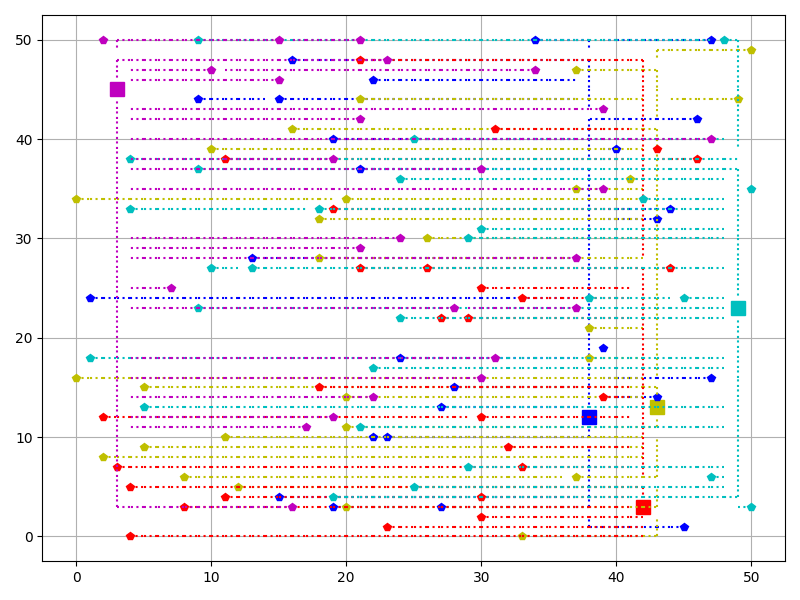
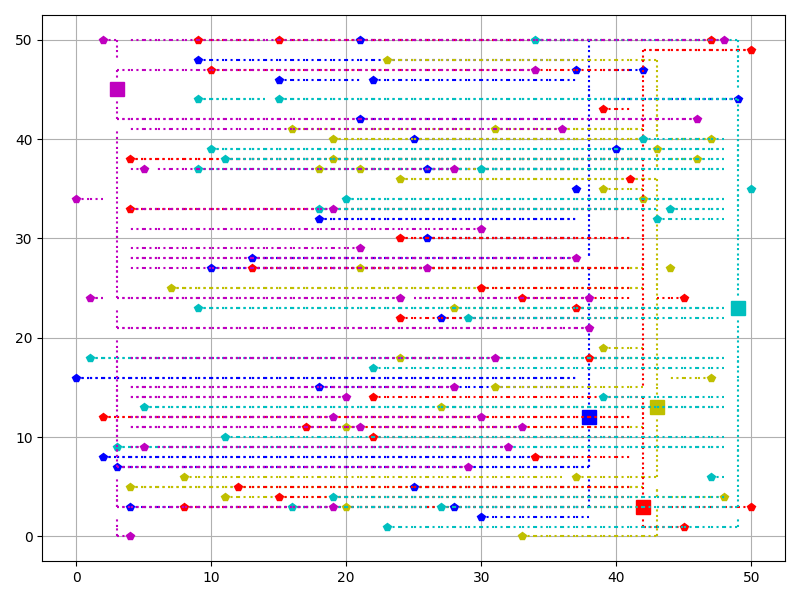
Jsonify Update
Create JSON output

diff --git a/code/klassen/district.py b/code/klassen/district.py
@@ -1,6 +1,7 @@
 from .batterijen import Batterijen
 from .huizen import Huizen
 from typing import TextIO
+import json
 import os
 
 
@@ -15,10 +16,9 @@ class District:
         self.losse_huizen = []
         self.gelinkte_huizen = []
 
-
         self.laad_batterijen(self.data_pad(district, 'batteries'))
         self.laad_huizen(self.data_pad(district, 'houses'))
-        
+
         for huis in self.losse_huizen:
             huis.bereken_afstand(self.batterijen)
 
@@ -28,21 +28,23 @@ class District:
 
         In: CSV bestand"""
 
-    # neemt file eindigend op batteries.csv als input. 
+        # neemt file eindigend op batteries.csv als input.
         with open(bestand, 'r') as b:
             teller = len(b.readlines())
         with open(bestand, 'r') as b:
             for i in range(0, teller):
                 data = self.data_inladen(b)
-        # voeg batterij object aan batterij-lijst toe.
+                # voeg batterij object aan batterij-lijst toe.
                 if data[0].isnumeric():
-                    self.batterijen.append(Batterijen(i, int(data[0]), int(data[1]), float(data[2])))
+                    self.batterijen.append(
+                        Batterijen(i, int(data[0]), int(data[1]),
+                                   float(data[2])))
 
     def laad_huizen(self, bestand: str) -> None:
         """Neemt data van bestand en maakt daarna huisobjecten.
         Deze worden ondergebracht in huislijst.
 
-        In: CSV bestand"""    
+        In: CSV bestand"""
 
         # neemt file eindigend op houses.csv als input. 
         with open(bestand, 'r') as b:
@@ -50,9 +52,10 @@ class District:
         with open(bestand, 'r') as b:
             for i in range(0, teller):
                 data = self.data_inladen(b)
-        # voeg batterij object aan huizen-lijst toe.
+                # voeg batterij object aan huizen-lijst toe.
                 if data[0].isnumeric():
-                    self.losse_huizen.append(Huizen(i, int(data[0]), int(data[1]), float(data[2])))
+                    self.losse_huizen.append(
+                        Huizen(i, int(data[0]), int(data[1]), float(data[2])))
 
     def data_inladen(self, b: TextIO):
         """Neemt bestandlijn en converteert het naar een lijst.
@@ -62,10 +65,10 @@ class District:
 
         line = b.readline()
         line = line.replace("\n", '')
-        line = line.replace('\"','')
+        line = line.replace('\"', '')
 
         return line.split(",")
-    
+
     def data_pad(self, district, item) -> str:
         """Vind het juist bestandspad naar opgevraagde bestand.
 
@@ -134,7 +137,7 @@ class District:
                 batterij.kabel_toevoegen(((cursor_x), (cursor_y)))
             cursor_y -= 1
         self.creer_connectie(batterij, huis)
-    
+
     def kosten_berekening(self):
         prijskaartje = 0
         # Kost batterijen
@@ -145,4 +148,30 @@ class District:
 
         return prijskaartje
 
-        
+    def jsonify(self, wijk_nummer):
+        json_dict = []
+        district = {"district": int(wijk_nummer), "costs-shared": self.kosten_berekening()}
+        json_dict.append(district)
+        batterij_data = {}
+        for batterij in self.batterijen:
+            lokatie_bat = f"{batterij.x_as},{batterij.y_as}"
+            capaciteit = batterij.capaciteit
+            huizen = []
+            for huis in batterij.gelinkte_huizen:
+                huis_data = {}
+                lokatie_huis = f"{huis.x_as},{huis.y_as}"
+                output = huis.maxoutput
+                kabels = []
+                for i in range(len(huis.kabels)):
+                    kabels.append(f"{huis.kabels[i][0]},{huis.kabels[i][1]}")
+                huis_data["location"] = lokatie_huis
+                huis_data["output"] = output
+                huis_data["cables"] = kabels
+                huizen.append(huis_data)
+            batterij_data["location"] = lokatie_bat
+            batterij_data["capacity"] = capaciteit
+            batterij_data["houses"] = huizen
+            json_dict.append(batterij_data)
+            batterij_data = {}
+        with open("output.json", "w") as outfile:
+            json.dump(json_dict, outfile)

diff --git a/code/visualisatie/smartgrid.py b/code/visualisatie/smartgrid.py
@@ -41,13 +41,18 @@ def visualise(wijknummer, wijk):
 
     for i in range(len(wijk.gelinkte_huizen)):
         index = wijk.batterijen.index(wijk.gelinkte_huizen[i].aangesloten)
+        batterij = wijk.gelinkte_huizen[i].aangesloten
         color = colors[index]
         for j in range(len(wijk.gelinkte_huizen[i].kabels)):
             kabel = wijk.gelinkte_huizen[i].kabels
             if len(kabel) != 1:
                 try:
                     plt.plot([kabel[j][0], kabel[j+1][0]], [kabel[j][1], kabel[j+1][1]], color=color, linestyle='dotted')
-                    # print(wijk.gelinkte_huizen[i].kabels[j][0], wijk.gelinkte_huizen[i].kabels[j+1][0])
+                    if (kabel[j][1], kabel[j+1][1]) in batterij.gelegde_kabels:
+                        plt.plot([kabel[j][0], kabel[j + 1][0]],
+                                 [kabel[j][1], kabel[j + 1][1]], color=color,
+                                 linestyle='dotted')
+
                 except IndexError:
                     plt.plot(wijk.gelinkte_huizen[i].x_as, wijk.gelinkte_huizen[i].y_as, color=color, marker='p')
                     break

diff --git a/main.py b/main.py
@@ -4,7 +4,7 @@ from code.klassen import district
 from code.visualisatie import smartgrid
 
 def run_printer(x):
-    print(f'run: {x}', end='\r', flush=True)
+    print(f'run: {x + 1}', end='\r', flush=True)
 
 if __name__ == "__main__":
 
@@ -30,7 +30,7 @@ if __name__ == "__main__":
     elif algoritme_kiezen == 'G' or algoritme_kiezen == "Greedy":
         wijk = district.District(wijk_kiezen, 1)
         run = greedy.greedy_alg(wijk)
-        succesvolle_runs[wijk] = wijk.kosten_berekening()   
+        succesvolle_runs[wijk] = wijk.kosten_berekening()
         
     else: 
         print('Invalid Argument')
@@ -46,6 +46,7 @@ if __name__ == "__main__":
         print(f'goedkoopste run:    {goedkoopste_run.id} | {succesvolle_runs[goedkoopste_run]}')
         print(f'gemiddelde:         {gemiddelde_prijs}')
         smartgrid.visualise(wijk_kiezen, goedkoopste_run)
+        goedkoopste_run.jsonify(wijk_kiezen)
         
     else:
         print('Geen succesvolle runs!')

diff --git a/README.md b/README.md
@@ -15,6 +15,7 @@ Requirements:
 
 - typing library
 - os library
+- json
 - matplotlib
 - pandas
 - python3-tk (GUI-backend)
